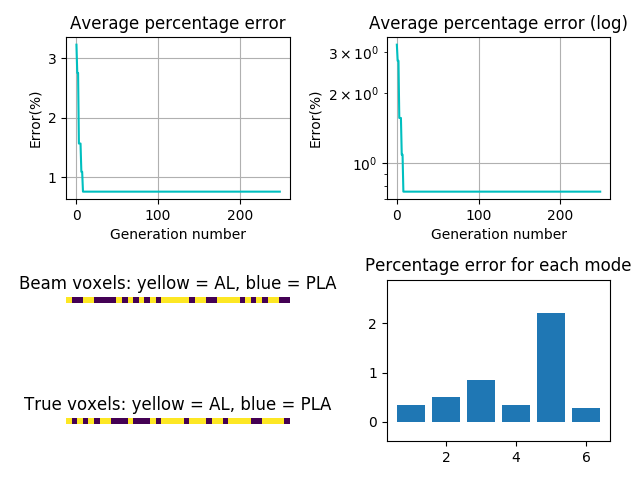
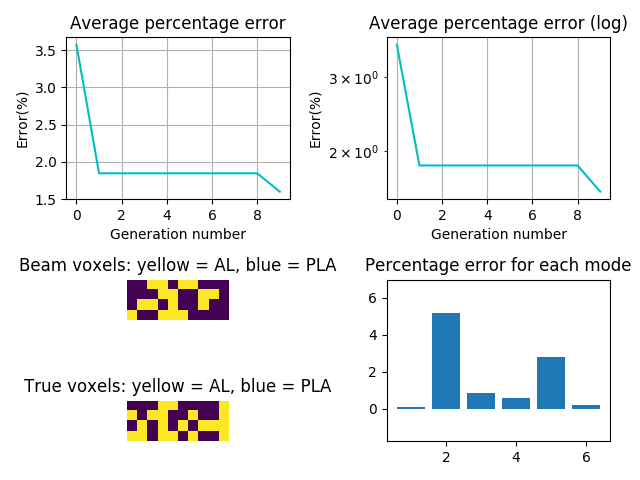
2D analysis, statistical analysis

diff --git a/40VoxelBeam/statistics.py b/40VoxelBeam/statistics.py
@@ -1,0 +1,46 @@
+import numpy as np
+import blackbox
+import algos
+import pandas as pd
+from toolkit import *
+import time
+
+def runHeuristic():
+    NGEN = 100
+    verbose = False
+    nVoxels = 40
+    iter = 50
+
+    fbestlist = []
+    firstlist = []
+    sollist = []
+    timelist = []
+    freqlist = []
+
+    for i in range(iter):
+        print("Running iteration:", i)
+        start = time.time()
+        (bin, fbest, best) = algos.GA_voxel(verbose, NGEN, nVoxels)
+        end = time.time()
+        freq = blackbox.blackbox_voxel(bin)
+
+        sol = binaryToStr(bin)
+        first = NGEN if (np.argmax(fbest<0.1)==0 and fbest[0]>=0.1) else np.argmax(fbest<0.1)
+        timer = end - start
+        frequencies = ", ".join(str(x) for x in freq)
+
+        fbestlist.append(fbest[-1])
+        firstlist.append(first)
+        sollist.append(sol)
+        timelist.append(timer)
+        freqlist.append(frequencies)
+
+    data = {'fbest': fbestlist, 'first': firstlist,'sol': sollist, 'freq': freqlist, 'time': timelist}
+    df = pd.DataFrame(data)
+    df.to_csv("data.csv")
+
+def main():
+    runHeuristic()
+
+if __name__ == "__main__":
+	main()

diff --git a/40VoxelBeam/heuristicVoxels.py b/40VoxelBeam/heuristicVoxels.py
@@ -9,7 +9,7 @@ N = 6
 
 if __name__ == '__main__': 
 
-    NGEN = 250
+    NGEN = 10
     verbose = True
     nVoxels = 40
 
@@ -56,13 +56,13 @@ if __name__ == '__main__':
     ax.set_xlabel('Generation number')
 
     plt.subplot(gs[2,0:2])
-    plt.imshow([bin])
+    plt.imshow([bin[3::4], bin[2::4], bin[1::4], bin[0::4]])
     plt.title("Beam voxels: yellow = AL, blue = PLA")
     plt.axis("off")
 
     goal = np.loadtxt('material_array.txt')
     plt.subplot(gs[3,0:2])
-    plt.imshow([goal])
+    plt.imshow([goal[3::4], goal[2::4], goal[1::4], goal[0::4]])
     plt.title("True voxels: yellow = AL, blue = PLA")
     plt.axis("off")
 
@@ -76,4 +76,4 @@ if __name__ == '__main__':
 
     plt.tight_layout()
     plt.savefig('Heuristic output')
-    plt.show()
+    #plt.show()

diff --git a/40VoxelBeam/algos.py b/40VoxelBeam/algos.py
@@ -1,6 +1,7 @@
 import blackbox
 import numpy as np
 import operator
+import multiprocessing
 
 from deap import base
 from deap import creator
@@ -388,6 +389,9 @@ def GA_voxel(verbose=False, NGEN=10, nVoxels=4):
     toolbox.register("mate", tools.cxTwoPoint)
     toolbox.register("mutate", tools.mutFlipBit, indpb=0.05)
     toolbox.register("select", tools.selTournament, tournsize=3)
+
+    pool = multiprocessing.Pool()
+    #toolbox.register("map", pool.map)
 
     hof = tools.HallOfFame(1)
     stats = tools.Statistics(lambda ind: ind.fitness.values)
